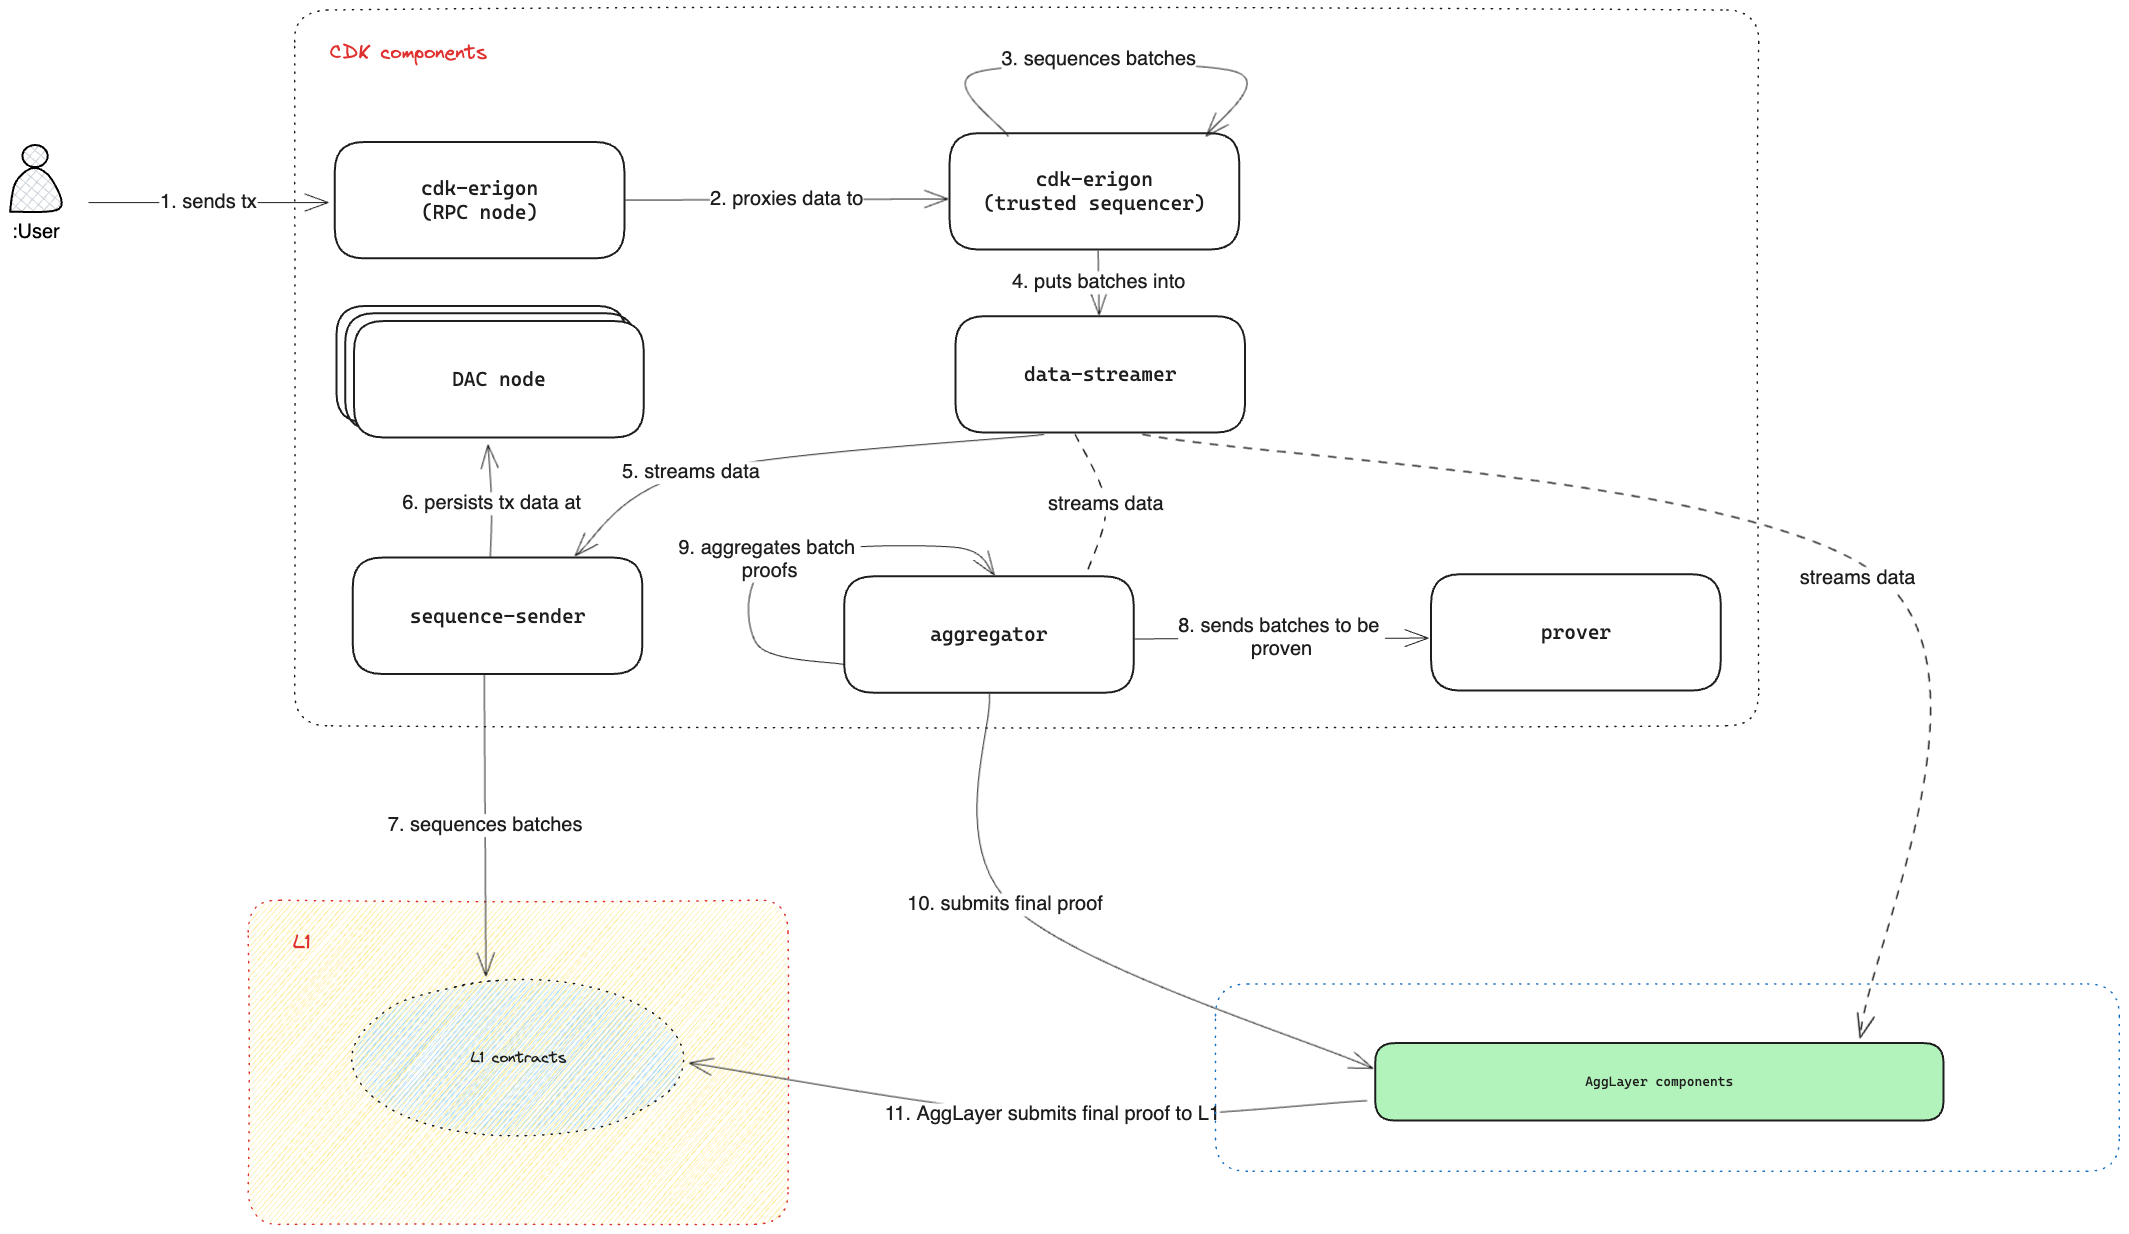
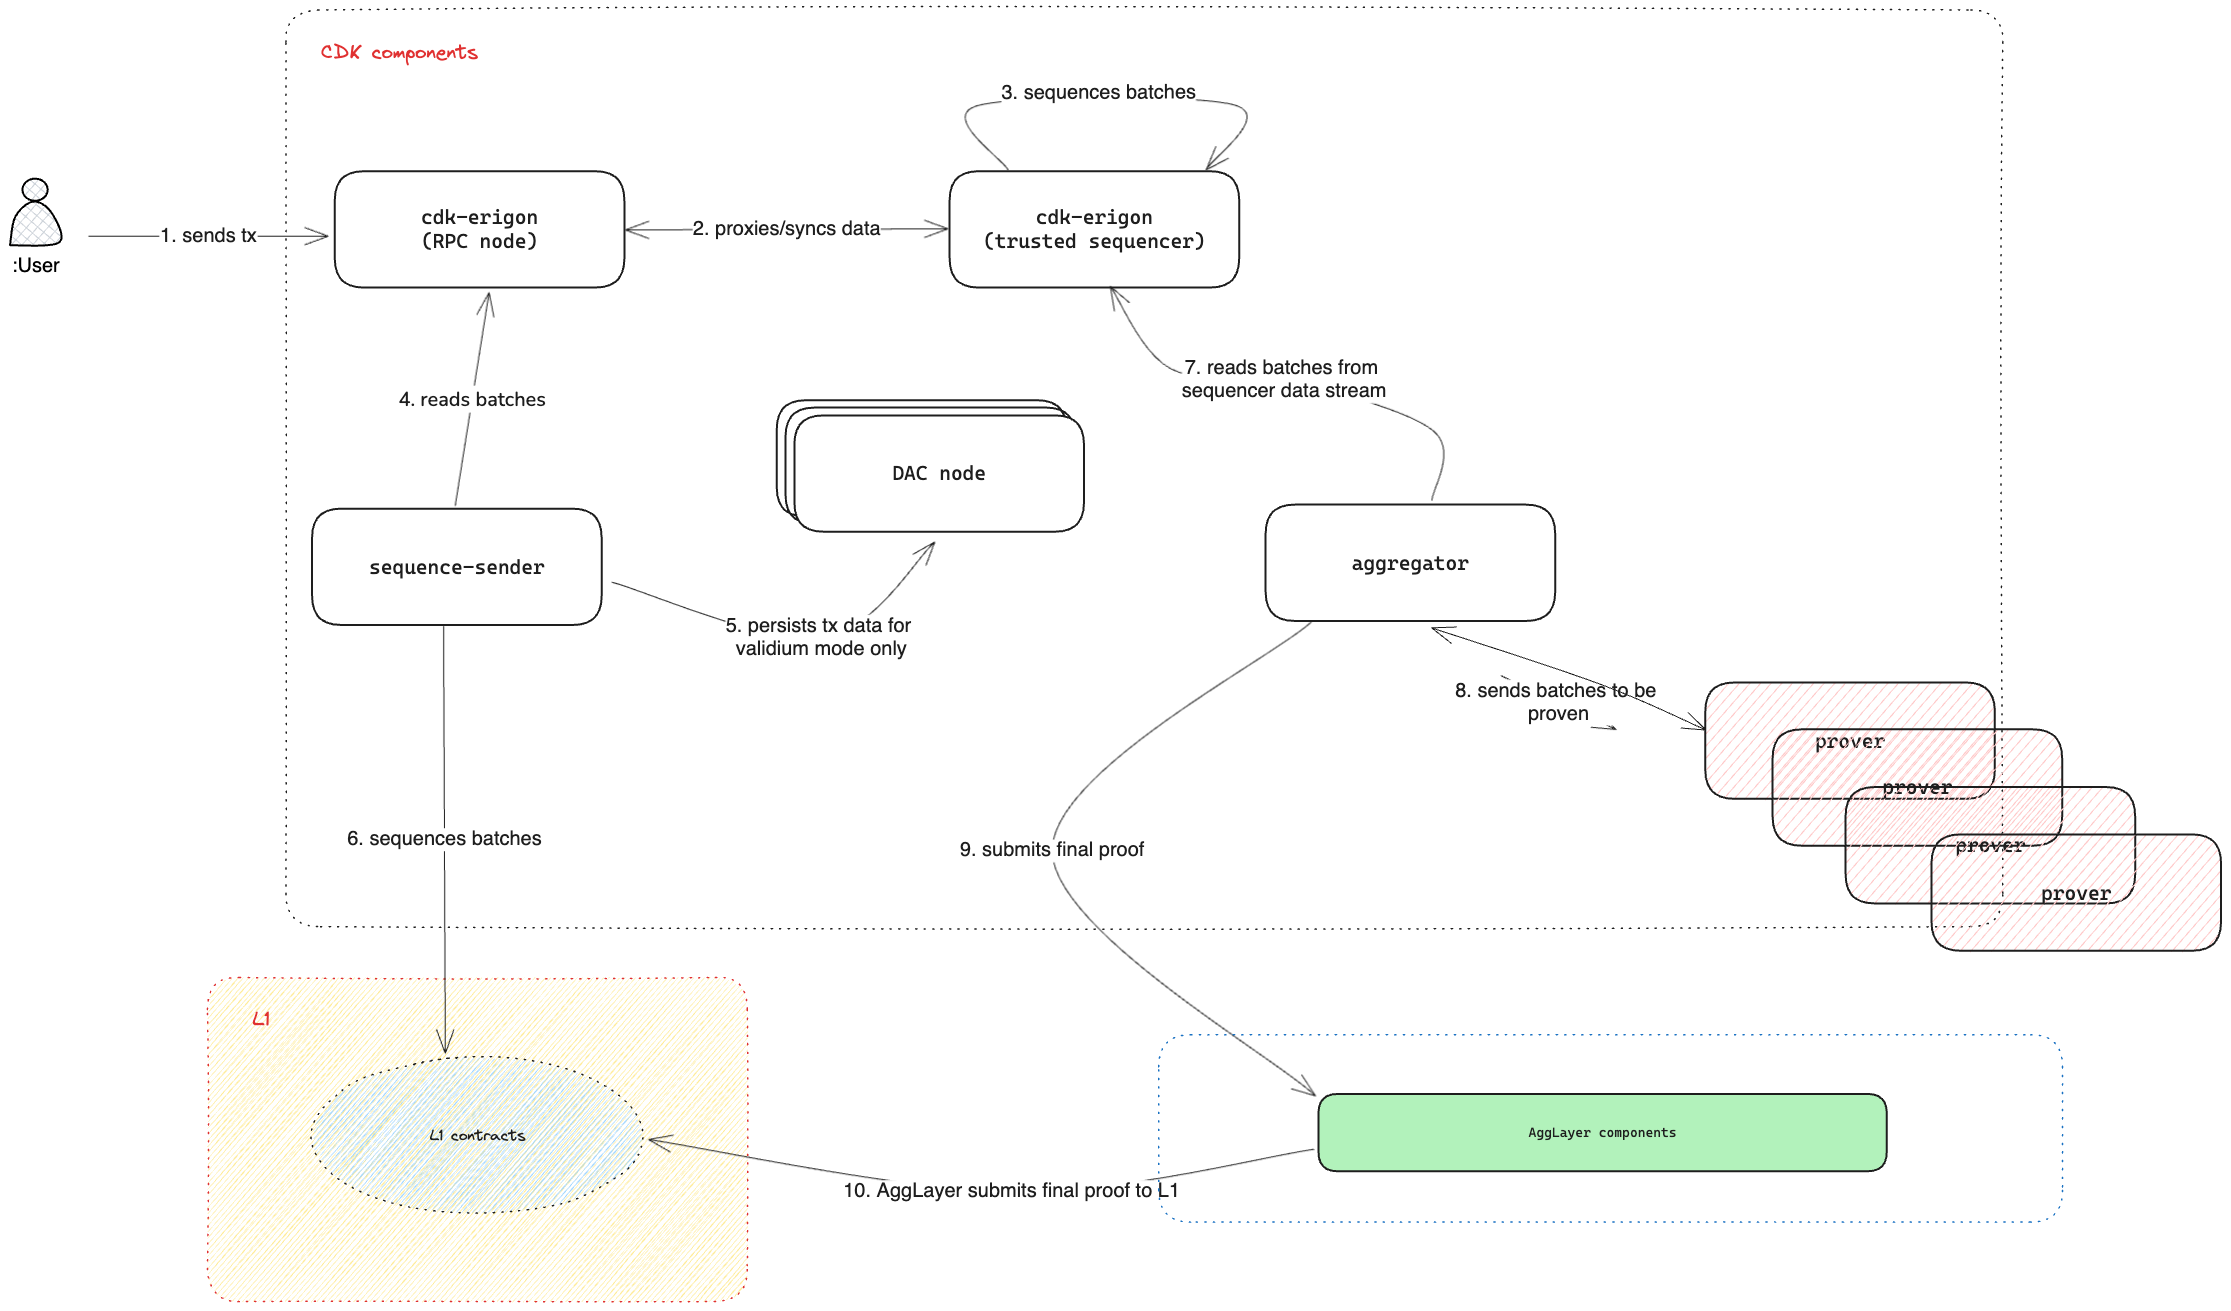
updates to pics and flows

diff --git a/docs/cdk/architecture/high-level-views.md b/docs/cdk/architecture/high-level-views.md
@@ -25,23 +25,21 @@ The following diagram is a sequential depiction of the user data flow for the CD
 #### Sequential interactions
 
 1. User sends a transaction to the CDK Erigon RPC node.
-2. The Erigon RPC node proxies the data to the CDK Erigon sequencer node.
+2. The CDK Erigon RPC node proxies the data to the CDK Erigon sequencer node and syncs the batch data between the sequencer and the RPC nodes.
 3. The sequencer sequences the transaction batches.
-4. The sequencer puts the batches into the data streamer component.
-5. The data streamer component streams the data into the sequence sender. It streams data into the aggregator and AggLayer for rollup and validium mode stacks. 
-6. In validium mode, the sequencer sender persists transaction data into the DAC nodes.
-7. In both modes, the sequencer sender sequences the batches into the L1 smart contracts.
-8. In both modes, the aggregator sends the batches to the prover and the prover returns the proofs.
-9. The aggregator batches the proofs.
-10. The aggregator submits the final proof to the AggLayer.
-11. The AggLayer submits the final proof to the L1 smart contract domain.
+4. The sequencer sender reads batches from the RPC node.
+5. In validium mode only, the sequencer sender persists transaction data into the DAC nodes.
+6. The sequencer sender sequences the batches into the L1 smart contracts.
+7. The aggregator reads batches from the sequencer data stream.
+8. The aggregator sends batches to the provers.
+9. The aggregator submits the final proof to the AggLayer.
+10. The AggLayer submits the final proof to the L1 smart contract domain.
 
 ```mermaid
 sequenceDiagram
     participant User
     participant ErigonRPC as CDK Erigon RPC Node
     participant Sequencer as CDK Erigon Sequencer Node
-    participant DataStreamer as Data Streamer
     participant SeqSender as Sequence Sender
     participant Aggregator
     participant AggLayer
@@ -50,18 +48,13 @@ sequenceDiagram
     participant L1 as L1 Smart Contracts
 
     User->>ErigonRPC: Send transaction
-    ErigonRPC->>Sequencer: Proxy transaction data
+    ErigonRPC->>Sequencer: Proxy and sync transaction data
     Sequencer->>Sequencer: Sequence transaction batches
-    Sequencer->>DataStreamer: Put batches into Data Streamer
-    DataStreamer->>SeqSender: Stream data into Sequence Sender
-    DataStreamer->>Aggregator: Stream data for Rollup & Validium mode
-    DataStreamer->>AggLayer: Stream data for Rollup & Validium mode
-    alt Validium Mode
-        SeqSender->>DACNodes: Persist transaction data
-    end
-    SeqSender->>L1: Sequence batches into L1 Smart Contracts (both modes)
-    Aggregator->>Prover: Send batches to Prover (both modes)
-    Prover->>Aggregator: Return proofs (both modes)
+    SeqSender->>ErigonRPC: Reads batches
+    SeqSender->>DACNodes: Persist transaction data (validium mode only)
+    SeqSender->>L1: Sequence batches into L1 Smart Contracts 
+    Aggregator->>Prover: Send batches to Prover 
+    Prover->>Aggregator: Return proofs 
     Aggregator->>Aggregator: Batch the proofs
     Aggregator->>AggLayer: Submit final proof
     AggLayer->>L1: Submit final proof to L1 Smart Contract Domain
